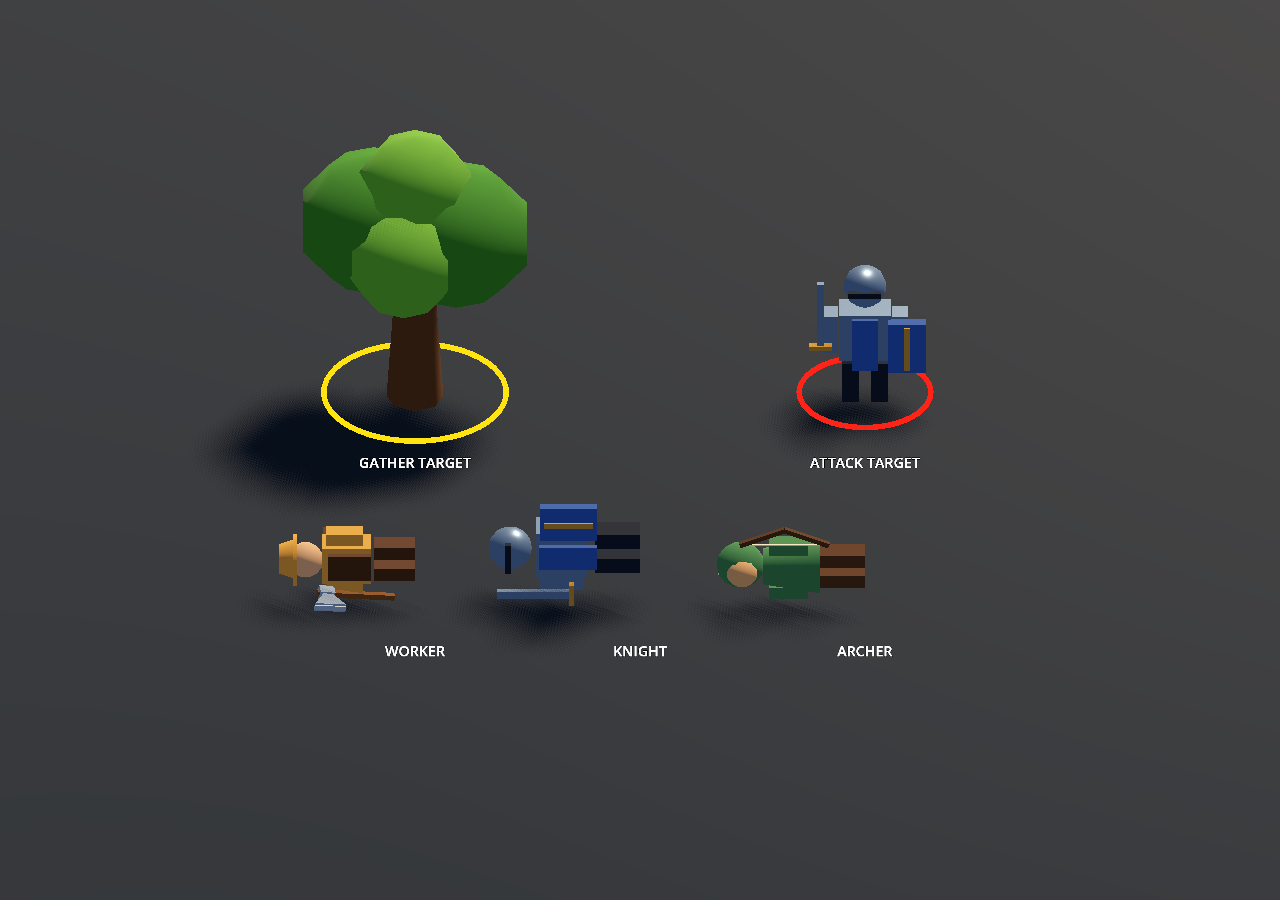
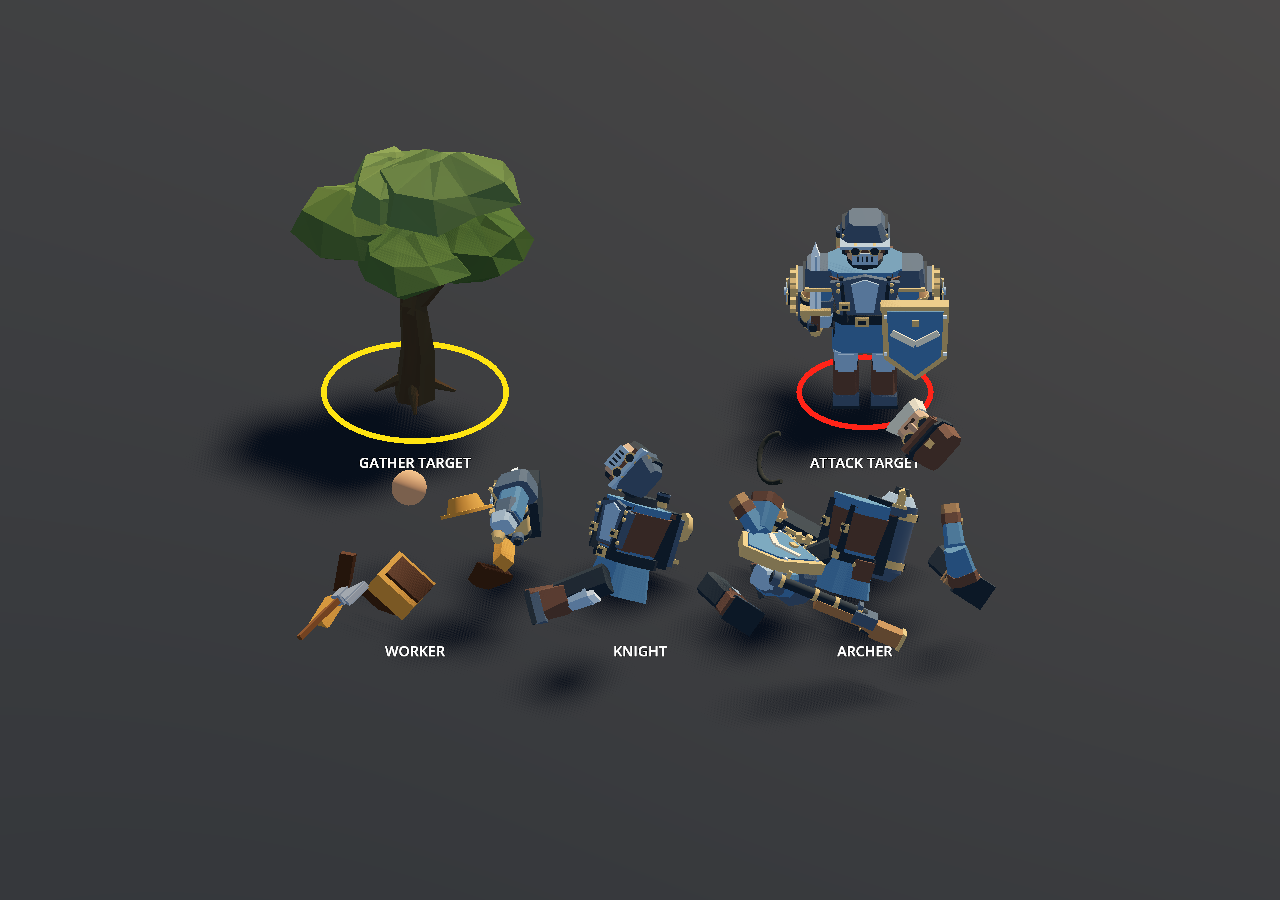
Break workers, soldiers, riflemen and flame machines into parts on death
The shared fall-over death said nothing about the world's cheap,
replaceable people or its treasured machines. The rigs are already
built from separate part nodes, so on REMOVE the client now detaches
them and throws them with a fixed-step ballistic motion: people pop
apart at head, arms, legs, torso and weapon in a puff of ash and fade
within 1.25 s; the flame machine bursts from a fireball with black
smoke, flinging head, nozzle, tracks and wheels while the hull topples.
No blood or wounds, no physics bodies or picking, and the unit root
stays put. Other units, units dying out of sight, and deaths past 16
concurrent breakups keep the fall so big fights stay readable. The
server still only removes the unit.

Claude-Session: https://claude.ai/code/session_017md1PihEYuhijLMYUmm9Dj

diff --git a/units/UnitBreakupEffect.cs b/units/UnitBreakupEffect.cs
@@ -1,0 +1,243 @@
+using Godot;
+using System.Collections.Generic;
+
+// Presentation only: REMOVE has already taken the unit out of the game, so the server never computes this.
+// The blocky rigs come apart at their own part nodes like mass-produced figures, with no blood, wounds or
+// physics bodies and nothing to click, and are gone in about a second. People pop apart in a puff of ash;
+// machines throw their heavy parts out of a fireball (docs/combat-feedback.md).
+public static class UnitBreakupEffect
+{
+    public const double PersonSeconds = 1.25, MachineSeconds = 1.8;
+    // Past this many at once, deaths fall back to the plain fall so big fights stay readable and cheap.
+    private const int MaxActive = 16;
+    private const float StepSeconds = 1 / 60f, Gravity = 16;
+    private static int _active;
+
+    // Pieces are listed children before parents; the last piece is the core that keeps what is left.
+    private sealed record Recipe(bool Machine, string[][] Pieces);
+
+    private static readonly Dictionary<uint, Recipe> Recipes = new()
+    {
+        [UnitCatalog.Worker] = new(false, new[]
+        {
+            new[] { "Torso/Head" }, new[] { "Torso/Hat", "Torso/HatBrim" }, new[] { "Torso/LeftArm" },
+            new[] { "Torso/RightArm" }, new[] { "LeftLeg" }, new[] { "RightLeg" }, new[] { "Torso" }
+        }),
+        [UnitCatalog.Knight] = new(false, Each("Rig/Head", "Rig/LeftArm", "Rig/RightArm", "Rig/LeftLeg", "Rig/RightLeg",
+            "Rig/LeftWinch", "Rig/RightWinch", "Rig/Body")),
+        [UnitCatalog.Archer] = new(false, Each("Rig/Head", "Rig/LeftArm", "Rig/RightArm", "Rig/LeftLeg", "Rig/RightLeg",
+            "Rig/Rifle", "Rig/Hose", "Rig/Body")),
+        [UnitCatalog.FlameAutomaton] = new(true, Each("Rig/Head", "Rig/Nozzle", "Rig/LeftTrack", "Rig/RightTrack",
+            "Rig/LeftWheel", "Rig/RightWheel", "Rig/Body"))
+    };
+
+    private static readonly SphereMesh PuffMesh = new() { Radius = .5f, Height = 1, RadialSegments = 8, Rings = 4 };
+    private static readonly StandardMaterial3D Ash = Puff(new Color(.49f, .48f, .45f, .7f));
+    private static readonly StandardMaterial3D Smoke = Puff(new Color(.24f, .23f, .21f, .75f));
+    private static readonly StandardMaterial3D Fire = Glow("ff8a3d");
+    private static readonly StandardMaterial3D Flash = Glow("ffd37a");
+
+    // Null means the caller should play the plain fall instead.
+    public static Tween TryPlay(Unit unit)
+    {
+        if (!Recipes.TryGetValue(unit.UnitType, out Recipe recipe) || _active >= MaxActive || !unit.IsVisibleInTree()) return null;
+        Node3D visual = unit.GetNode<Node3D>("Visual");
+        var groups = new List<List<Node3D>>();
+        foreach (string[] paths in recipe.Pieces)
+        {
+            var nodes = new List<Node3D>();
+            foreach (string path in paths)
+                if (visual.GetNodeOrNull<Node3D>(path) is { } node) nodes.Add(node);
+            if (nodes.Count > 0) groups.Add(nodes);
+        }
+        if (groups.Count < 2) return null;
+        var effect = new Breakup(unit, recipe.Machine, groups);
+        double seconds = recipe.Machine ? MachineSeconds : PersonSeconds;
+        _active++;
+        unit.Connect(Node.SignalName.TreeExiting, Callable.From(() => _active--), (uint)GodotObject.ConnectFlags.OneShot);
+        Tween tween = unit.CreateTween();
+        using var play = tween.TweenMethod(Callable.From<float>(effect.AdvanceTo), 0f, (float)seconds, seconds);
+        using var finish = tween.TweenCallback(Callable.From(unit.QueueFree));
+        return tween;
+    }
+
+    private sealed class Piece
+    {
+        public Node3D Pivot;
+        public Vector3 Velocity, Spin;
+        public float Radius;
+        public bool Resting;
+    }
+
+    private sealed class Breakup
+    {
+        private readonly List<Piece> _pieces = new();
+        private readonly List<MeshInstance3D> _meshes = new();
+        private readonly List<(MeshInstance3D Mesh, Vector3 Start, Vector3 Drift, float From, float To, float Life)> _puffs = new();
+        private readonly float _seconds, _fadeFrom;
+        private float _time;
+
+        public Breakup(Unit unit, bool machine, List<List<Node3D>> groups)
+        {
+            _seconds = (float)(machine ? MachineSeconds : PersonSeconds);
+            _fadeFrom = _seconds - .45f;
+            uint seed = unit.UnitId * 2654435761u + 1;
+            float Next() { seed = seed * 1664525u + 1013904223u; return (seed >> 8) / 16777216f; }
+            var bounds = new List<Aabb>();
+            Vector3 origin = Vector3.Zero;
+            foreach (List<Node3D> nodes in groups)
+            {
+                Aabb box = Bounds(nodes);
+                bounds.Add(box);
+                origin += box.GetCenter();
+            }
+            // Burst from just below the middle of the figure so the pieces fly up and out.
+            origin /= groups.Count;
+            origin.Y -= machine ? .15f : .25f;
+            for (int i = 0; i < groups.Count; i++)
+            {
+                Aabb box = bounds[i];
+                var pivot = new Node3D { Name = "BreakupPiece" + i };
+                unit.AddChild(pivot);
+                pivot.GlobalPosition = box.GetCenter();
+                foreach (Node3D node in groups[i]) node.Reparent(pivot);
+                CollectMeshes(pivot, _meshes);
+                bool core = i == groups.Count - 1;
+                Vector3 away = box.GetCenter() - origin;
+                away.Y = 0;
+                if (away.LengthSquared() < .0025f)
+                {
+                    float angle = Next() * Mathf.Tau;
+                    away = new Vector3(Mathf.Cos(angle), 0, Mathf.Sin(angle));
+                }
+                float spread = (machine ? 4.6f : 1.9f) * (.7f + .6f * Next());
+                // Heads and hats pop highest; the core slumps instead of flying.
+                float lift = (machine ? 5.4f : 2.8f) * (.8f + .4f * Next()) + Mathf.Max(0, box.GetCenter().Y - origin.Y) * 1.2f;
+                if (core) { spread *= .3f; lift *= .45f; }
+                Vector3 axis = new Vector3(Next() - .5f, Next() - .5f, Next() - .5f).Normalized();
+                _pieces.Add(new Piece
+                {
+                    Pivot = pivot,
+                    Velocity = away.Normalized() * spread + Vector3.Up * lift,
+                    Spin = axis * (machine ? 4.5f : 8.5f) * (.6f + .8f * Next()) * (core ? machine ? .8f : .4f : 1),
+                    Radius = Mathf.Clamp(Mathf.Min(box.Size.X, Mathf.Min(box.Size.Y, box.Size.Z)) / 2, .05f, .6f)
+                });
+            }
+            Vector3 local = unit.ToLocal(origin);
+            if (machine)
+            {
+                // The fireball sits above the hull so the hull cannot hide it from the RTS camera.
+                for (int i = 0; i < 5; i++)
+                    AddPuff(unit, i % 2 == 0 ? Flash : Fire, local + Scatter(Next, .6f) + Vector3.Up * 1.3f, new Vector3(0, 1.2f, 0), .5f, 1.9f, .4f);
+                for (int i = 0; i < 6; i++)
+                    AddPuff(unit, Smoke, local + Scatter(Next, .6f) + Vector3.Up * .9f, new Vector3(0, 1.1f, 0) + Scatter(Next, .4f), .5f, 1.6f, 1.6f);
+            }
+            else
+                for (int i = 0; i < 3; i++)
+                    AddPuff(unit, Ash, local + Scatter(Next, .2f) + Vector3.Up * .25f, Scatter(Next, .4f) + Vector3.Up * .4f, .12f, .55f, .4f);
+        }
+
+        public void AdvanceTo(float time)
+        {
+            // Fixed sub-steps keep the motion the same at any frame rate and under Tween.CustomStep.
+            while (_time < time)
+            {
+                float dt = Mathf.Min(StepSeconds, time - _time);
+                _time += dt;
+                foreach (Piece piece in _pieces) Step(piece, dt);
+            }
+            float fade = Mathf.Clamp((_time - _fadeFrom) / (_seconds - _fadeFrom), 0, 1);
+            foreach (MeshInstance3D mesh in _meshes)
+                if (GodotObject.IsInstanceValid(mesh)) mesh.Transparency = fade;
+            foreach (var (mesh, start, drift, from, to, life) in _puffs)
+            {
+                float t = Mathf.Clamp(_time / life, 0, 1);
+                mesh.Visible = t < 1;
+                mesh.Scale = Vector3.One * Mathf.Lerp(from, to, 1 - (1 - t) * (1 - t));
+                mesh.Position = start + drift * _time;
+                mesh.Transparency = Mathf.Lerp(.3f, 1, t);
+            }
+        }
+
+        private static void Step(Piece piece, float dt)
+        {
+            if (!GodotObject.IsInstanceValid(piece.Pivot)) return;
+            if (!piece.Resting) piece.Velocity += Vector3.Down * Gravity * dt;
+            Vector3 position = piece.Pivot.GlobalPosition + piece.Velocity * dt;
+            if (position.Y < piece.Radius)
+            {
+                position.Y = piece.Radius;
+                if (piece.Velocity.Y < 0)
+                {
+                    // A dull bounce, then the piece skids to a stop on the ground.
+                    piece.Velocity = new Vector3(piece.Velocity.X * .55f, -piece.Velocity.Y * .3f, piece.Velocity.Z * .55f);
+                    piece.Spin *= .5f;
+                    if (piece.Velocity.Y < .7f) { piece.Velocity.Y = 0; piece.Resting = true; }
+                }
+            }
+            if (piece.Resting)
+            {
+                float friction = Mathf.Max(0, 1 - 5 * dt);
+                piece.Velocity *= friction;
+                piece.Spin *= friction;
+            }
+            piece.Pivot.GlobalPosition = position;
+            float speed = piece.Spin.Length();
+            if (speed > .001f) piece.Pivot.GlobalRotate(piece.Spin / speed, speed * dt);
+        }
+
+        private void AddPuff(Unit unit, Material material, Vector3 position, Vector3 drift, float from, float to, float life)
+        {
+            var puff = new MeshInstance3D
+            {
+                Name = "BreakupPuff" + _puffs.Count, Mesh = PuffMesh, MaterialOverride = material, Position = position,
+                Scale = Vector3.One * from, CastShadow = GeometryInstance3D.ShadowCastingSetting.Off
+            };
+            unit.AddChild(puff);
+            _puffs.Add((puff, position, drift, from, to, life));
+        }
+
+        private static Vector3 Scatter(System.Func<float> next, float size) =>
+            new Vector3(next() - .5f, (next() - .5f) * .5f, next() - .5f) * size * 2;
+    }
+
+    private static Aabb Bounds(List<Node3D> nodes)
+    {
+        var meshes = new List<MeshInstance3D>();
+        foreach (Node3D node in nodes) CollectMeshes(node, meshes);
+        Aabb? total = null;
+        foreach (MeshInstance3D mesh in meshes)
+        {
+            if (!mesh.IsVisibleInTree()) continue;
+            Aabb box = mesh.GlobalTransform * mesh.GetAabb();
+            total = total is { } sum ? sum.Merge(box) : box;
+        }
+        return total ?? new Aabb(nodes[0].GlobalPosition - Vector3.One * .1f, Vector3.One * .2f);
+    }
+
+    private static void CollectMeshes(Node node, List<MeshInstance3D> meshes)
+    {
+        if (node is MeshInstance3D mesh) meshes.Add(mesh);
+        foreach (Node child in node.GetChildren()) CollectMeshes(child, meshes);
+    }
+
+    private static string[][] Each(params string[] paths)
+    {
+        var pieces = new string[paths.Length][];
+        for (int i = 0; i < paths.Length; i++) pieces[i] = new[] { paths[i] };
+        return pieces;
+    }
+
+    private static StandardMaterial3D Puff(Color color) => new()
+    {
+        AlbedoColor = color, Transparency = BaseMaterial3D.TransparencyEnum.Alpha,
+        ShadingMode = BaseMaterial3D.ShadingModeEnum.Unshaded
+    };
+
+    private static StandardMaterial3D Glow(string color) => new()
+    {
+        AlbedoColor = new Color(color), ShadingMode = BaseMaterial3D.ShadingModeEnum.Unshaded,
+        EmissionEnabled = true, Emission = new Color(color), EmissionEnergyMultiplier = 1.4f,
+        Transparency = BaseMaterial3D.TransparencyEnum.Alpha
+    };
+}

diff --git a/units/UnitDeathEffect.cs b/units/UnitDeathEffect.cs
@@ -1,7 +1,8 @@
 using Godot;
 using System.Collections.Generic;
 
-// 세 유닛이 공유하는 화면 연출. 게임에서의 제거는 UnitManager가 먼저 처리합니다.
+// 사망 화면 연출. 게임에서의 제거는 UnitManager가 먼저 처리합니다.
+// 파츠가 분리되는 유닛은 UnitBreakupEffect를, 나머지와 혼잡할 때는 옆으로 넘어지는 공통 연출을 씁니다.
 public static class UnitDeathEffect
 {
     public const double FallSeconds = 0.45;
@@ -10,8 +11,13 @@ public static class UnitDeathEffect
 
     public static Tween Play(Unit unit)
     {
-        Node3D visual = unit.GetNode<Node3D>("Visual");
         unit.GetNodeOrNull<AnimationPlayer>("AnimationPlayer")?.Pause();
+        return UnitBreakupEffect.TryPlay(unit) ?? Fall(unit);
+    }
+
+    private static Tween Fall(Unit unit)
+    {
+        Node3D visual = unit.GetNode<Node3D>("Visual");
         var meshes = new List<MeshInstance3D>();
         CollectMeshes(visual, meshes);
 

diff --git a/docs/combat-feedback.md b/docs/combat-feedback.md
@@ -4,15 +4,20 @@
 
 ## 사망
 
-`REMOVE`를 받으면 유닛을 관리자 목록/선택/클릭 판정에서 즉시 제외합니다. 화면 모델만 남겨 기사·궁수·일꾼 모두 같은 연출을 재생합니다.
+`REMOVE`를 받으면 유닛을 관리자 목록/선택/클릭 판정에서 즉시 제외하고 화면 모델만 남겨 사망 연출을 재생합니다. 서버는 유닛을 지우기만 하고, 연출은 클라이언트에서만 계산합니다.
 
-- 0.45초 동안 바라보는 방향을 기준으로 옆으로 넘어집니다.
-- 바닥에 0.15초 머물렀다가 0.45초 동안 흐려지며 사라집니다.
-- 일꾼의 도끼질과 호흡은 사망 시작 때 정지합니다. 들고 있던 도끼나 통나무도 같이 넘어집니다.
+![사망 연출](images/combat-feedback.png)
+
+- **사람(일꾼·스팀돌격병·공압사수):** 모델이 머리·팔·다리·몸통·들고 있던 무기나 도구 같은 자기 부품 단위로 떨어져 튕겨 나갑니다. 일꾼은 모자도 따로 날아갑니다. 잿빛 먼지가 잠깐 피어오르고, 부품은 한 번 둔하게 튀어 바닥에 미끄러진 뒤 1.25초(`UnitBreakupEffect.PersonSeconds`) 안에 흐려지며 사라집니다.
+- **화염기계:** 몸체 위에서 불덩이가 터지고 검은 연기가 오르며, 머리·노즐·양쪽 궤도·바퀴가 사방으로 날아가고 몸체는 넘어집니다. 1.8초(`MachineSeconds`) 뒤 사라집니다.
+- 피·상처·절단면은 그리지 않습니다. 블록 모델이 대량 생산된 인형처럼 부품째 흩어지는 것으로 "갈아 끼우는 사람"을 보여 주고([아트 디렉션](art-direction.md#인명경시-사람은-소모품-병기는-보물)), 기계는 더 크게 터져 대비를 만듭니다.
+- 부품은 물리 몸체가 아니라 연출용으로 움직이며 클릭·충돌·시야에 영향을 주지 않습니다. 흩어지는 방향은 유닛 ID로 정해 매번 같습니다. 루트 위치는 그대로라 사망 위치도 변하지 않습니다.
+- 그 밖의 유닛과, 분해 연출이 이미 16개(`MaxActive`) 진행 중일 때는 예전처럼 0.45초 동안 옆으로 넘어지고 0.15초 머문 뒤 0.45초 동안 흐려집니다. 큰 교전에서 화면이 부품으로 덮이지 않게 하기 위해서입니다. 시야 밖에서 죽은 유닛도 넘어지는 연출을 씁니다.
+- 일꾼의 도끼질과 호흡은 사망 시작 때 정지합니다.
 - 사망 중 추가 POS/STATE/REMOVE는 이동하거나 연출을 재시작하지 않습니다.
 - 맵 초기화는 진행 중인 사망 연출까지 즉시 정리합니다.
 
-공통 연출은 `units/UnitDeathEffect.cs`, 게임 오브젝트 제외는 `UnitManager.HandleRemove`, 클릭 차단은 `Unit.BeginDeath`에서 처리합니다. 현재 REMOVE에는 제거 이유가 없으므로 접속 종료로 제거된 유닛도 같은 연출을 사용합니다. 타격과 사망 시점을 정밀하게 맞추는 서버 선딜 기능은 추가하지 않았습니다.
+넘어지는 연출은 `units/UnitDeathEffect.cs`, 부품 분해는 `units/UnitBreakupEffect.cs`(유닛별 부품 노드 목록), 게임 오브젝트 제외는 `UnitManager.HandleRemove`, 클릭 차단은 `Unit.BeginDeath`에서 처리합니다. 현재 REMOVE에는 제거 이유가 없으므로 접속 종료로 제거된 유닛도 같은 연출을 사용합니다. 타격과 사망 시점을 정밀하게 맞추는 서버 선딜 기능은 추가하지 않았습니다.
 
 ## 대상 원
 
@@ -27,6 +32,6 @@
 
 ## 확인
 
-`previews/CombatFeedback.tscn`을 열고 F6을 누르면 세 유닛의 사망 연출이 반복됩니다. 위쪽의 노란/빨간 원은 두 종류의 표시를 비교하는 독립적인 예시입니다.
+`previews/CombatFeedback.tscn`을 열고 F6을 누르면 세 유닛의 사망 연출이 반복됩니다. `-- --capture`로 실행하면 사망 0.525초 시점을 `docs/images/combat-feedback.png`에 저장합니다. 위쪽의 노란/빨간 원은 두 종류의 표시를 비교하는 독립적인 예시입니다.
 
 명령 대상·사망 후 조종 제외는 `./tests/run.ps1 -Check UnitSceneChecks`, 사망·HIDE 후 위치 반영 중단은 `-Check InterpolationChecks`에서 확인합니다.

diff --git a/CHANGELOG.md b/CHANGELOG.md
@@ -5,6 +5,7 @@
 
 ## 2026-10-21
 
+- 일꾼·스팀돌격병·공압사수·화염기계가 죽으면 부품이 분리되어 흩어집니다([사망 연출](docs/combat-feedback.md#사망), 사용자 요청). 사람은 머리·팔·다리·몸통·무기가 잿빛 먼지와 함께 튕겨 나갔다가 1.25초 안에 흐려지고(일꾼은 모자도 따로), 화염기계는 불덩이와 검은 연기 속에 머리·노즐·궤도·바퀴가 사방으로 날아가고 몸체가 넘어집니다. 피·상처·절단면은 없고 블록 모델이 인형처럼 부품째 흩어지는 방식이라 아트 디렉션의 "사람은 갈아 끼운다"를 그대로 보여 줍니다. 클라이언트 연출만이며 서버는 유닛을 지우기만 합니다. 다른 유닛과 분해 연출이 동시에 16개를 넘을 때는 예전처럼 옆으로 넘어집니다. [미리보기](docs/images/combat-feedback.png)를 다시 찍었습니다.
 - 적 요새를 무너뜨려도 마석을 받는 서버 규칙을 화면 안내에 반영했습니다([치유사와 마석](docs/game-modes.md#치유사와-마석), 사용자 요청). 미니언 UI **+** 버튼의 마석 부족 툴팁이 "중앙 마석·정글 큰 금덩어리를 수집하거나 적 요새를 무너뜨리면 얻습니다"로 바뀌었습니다. 받은 마석은 기존 `STOCK 3` 메시지로 들어오므로 클라이언트 메시지 처리는 그대로입니다. 서버 `project-w-server`의 요새 마석 보상과 같은 날 병합합니다.
 - 공성추를 통나무를 든 일꾼 두 명에서 **4족 보행 공성 로봇**으로 바꿨습니다([아트 디렉션](docs/art-direction.md#유닛), 사용자 요청). 옻칠 철판 차체에 진영색 측면 장갑·방패·깃발, 앞쪽 금박 사자 얼굴 충각, 뒤쪽 구리 보일러와 굴뚝 연기를 달았고, 꽁무니 발판에서 번호표를 단 화부가 석탄을 퍼 넣습니다. 네 다리는 일부러 서로 맞지 않습니다: 공장 원래 다리, 사고로 휜 다리, 짧아서 나무 받침을 묶은 구리 배관 다리, 길어서 부목을 댄 다리. 차체가 짧은 다리 쪽으로 기울고 다리마다 박자·보폭이 달라 절뚝이며 걷습니다. 충돌 연출의 나무 파편은 쇳조각·벽돌 파편과 잿빛 먼지로, 선택 초상화(`ui/icons/siege-ram*.svg`)와 [라인 미리보기](docs/images/siege-ram-preview.png)도 새 모델로 바꿨습니다. 선택 영역·선택 원·체력바 높이와 이름("공성추"), 서버 동작은 그대로입니다.
 - 내보내기 빌드에서 개발용 폴더를 뺐습니다([클라이언트 배포 빌드](docs/friend-test.md#클라이언트-배포-빌드), 사용자 요청). `tests/`·`tools/`·`previews/`의 장면·스크립트·검사 데이터가 팩에 들어가지 않고(팩 파일 654→428개, 6.4→6.0MB), 같은 폴더의 C# 코드도 내보내기 어셈블리에서 빠집니다. 에디터 실행과 검사에는 그대로 남습니다.

diff --git a/docs/units.md b/docs/units.md
@@ -103,7 +103,7 @@ UNIT 생성·재등장·중복 스냅샷은 즉시 배치하고 보간 이력을
 
 의상·모자·방패의 `team_cloth` 재질은 내 진영을 기준으로 아군은 옅은 파랑, 적군은 옅은 붉은색으로 표시합니다. 미니언과 다른 플레이어의 유닛도 같은 진영이면 아군 색을 사용합니다. 원본 모델과 피부·금속·가죽·목재는 유지합니다. [진영 색상](team-colors.md)을 참고하세요.
 
-REMOVE를 받으면 선택과 클릭 판정에서 즉시 제외하고, 모델은 공통 사망 연출(옆으로 넘어짐 → 서서히 사라짐)을 마친 후 지웁니다. 채집/공격 요청의 대상에는 각각 노란/빨간 원을 표시합니다. 자세한 동작과 미리보기는 [사망 연출과 명령 대상 표시](combat-feedback.md)를 참고하세요.
+REMOVE를 받으면 선택과 클릭 판정에서 즉시 제외하고, 모델은 사망 연출(일꾼·스팀돌격병·공압사수·화염기계는 부품 분해, 나머지는 옆으로 넘어짐 → 서서히 사라짐)을 마친 후 지웁니다. 채집/공격 요청의 대상에는 각각 노란/빨간 원을 표시합니다. 자세한 동작과 미리보기는 [사망 연출과 명령 대상 표시](combat-feedback.md)를 참고하세요.
 
 HIDE는 시야 이탈입니다. 사망 연출 없이 모델·클릭 영역·명령 대상 표시와 ID 조회를 즉시 정리합니다. 이후 UNIT/STATE/HP가 다시 오면 새 인스턴스로 최신 상태를 표시합니다. 시야 밖 상대 유닛은 처음부터 스냅샷에 포함되지 않습니다. 자세한 내용은 [전장의 안개](fog-of-war.md)를 참고하세요.
 

diff --git a/docs/art-direction.md b/docs/art-direction.md
@@ -31,7 +31,7 @@
 세계관의 냉혹함은 잔혹한 장면이 아니라 **사람과 기계를 대하는 차이**로 보여 준다. 피·절단·시체 같은 고어는 쓰지 않는다.
 
 - **병기는 아낀다:** 기계에는 금박 문장, 일련번호 명판, 닦아 낸 광택, 정비공이 매달려 있다. 기계가 부서지면 크게 폭발하고 파편이 튄다.
-- **사람은 갈아 끼운다:** 병사와 미니언은 스텐실로 찍은 번호표, 짝이 안 맞는 장비, 기워 입은 제복. 죽으면 짧게 쓰러지고 금방 사라진다. 같은 얼굴이 대량 생산된 듯 반복된다.
+- **사람은 갈아 끼운다:** 병사와 미니언은 스텐실로 찍은 번호표, 짝이 안 맞는 장비, 기워 입은 제복. 죽으면 대량 생산된 인형처럼 부품째 흩어지고 금방 사라진다(피·상처·절단면 없음, [사망 연출](combat-feedback.md#사망)). 같은 얼굴이 대량 생산된 듯 반복된다.
 - **기계에 묶인 사람:** 일꾼은 방독면과 족쇄 같은 안전줄, 등에 연결된 배관. 기계 유닛 위에는 보일러에 석탄을 퍼 넣는 화부가 매달려 있다.
 - **개조:** 산업 재해를 의수·의족·호흡기로 때운 병사와 일꾼. 귀족은 금으로 장식한 정교한 의수, 노동자는 고철 의수.
 - **제도:** 징병소, 배급표, 감시 탐조등, 선전 포스터와 확성기, 귀족 문장이 찍힌 노동 계약서 같은 소품으로 "이게 당연한 도시"임을 보여 준다.
